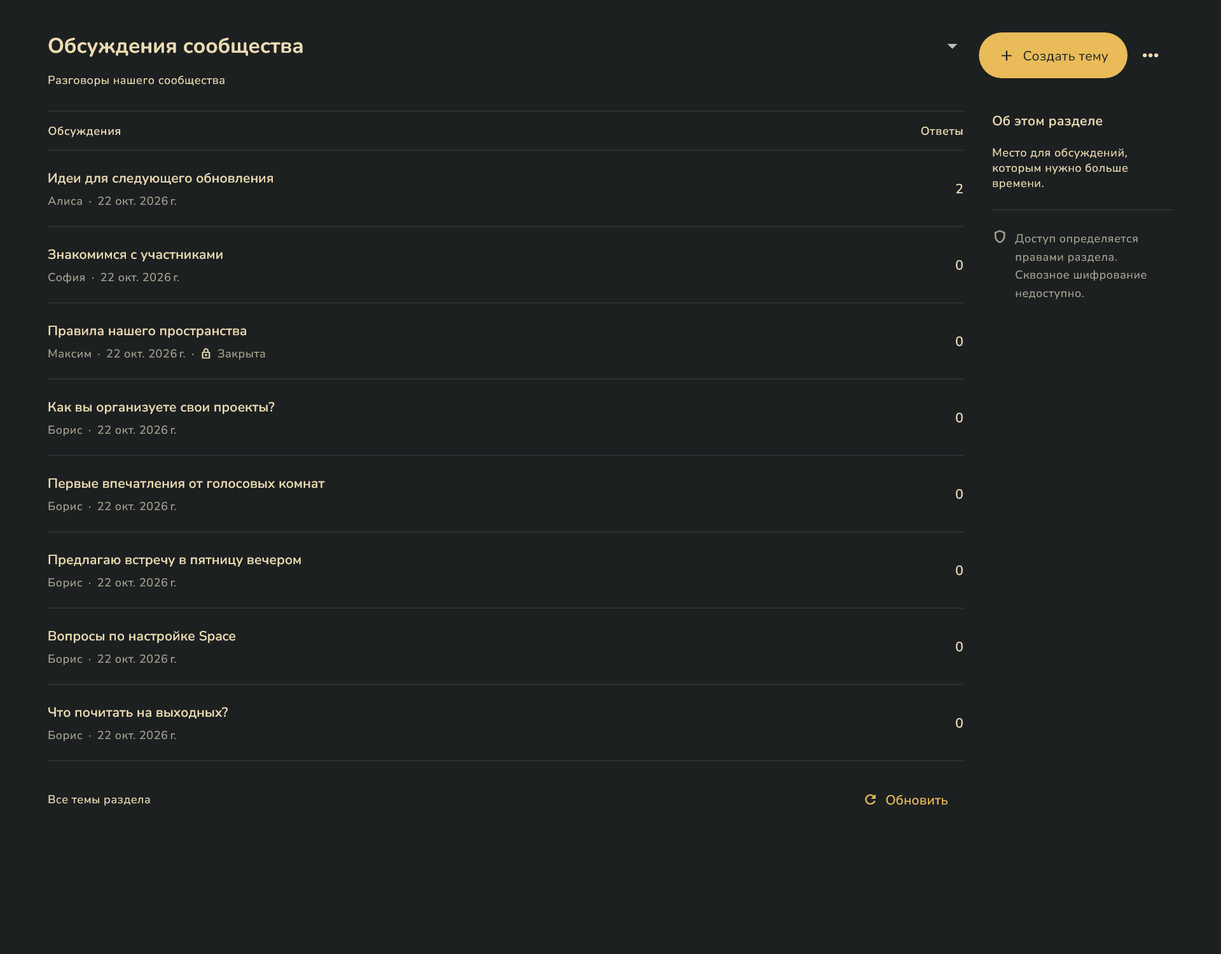
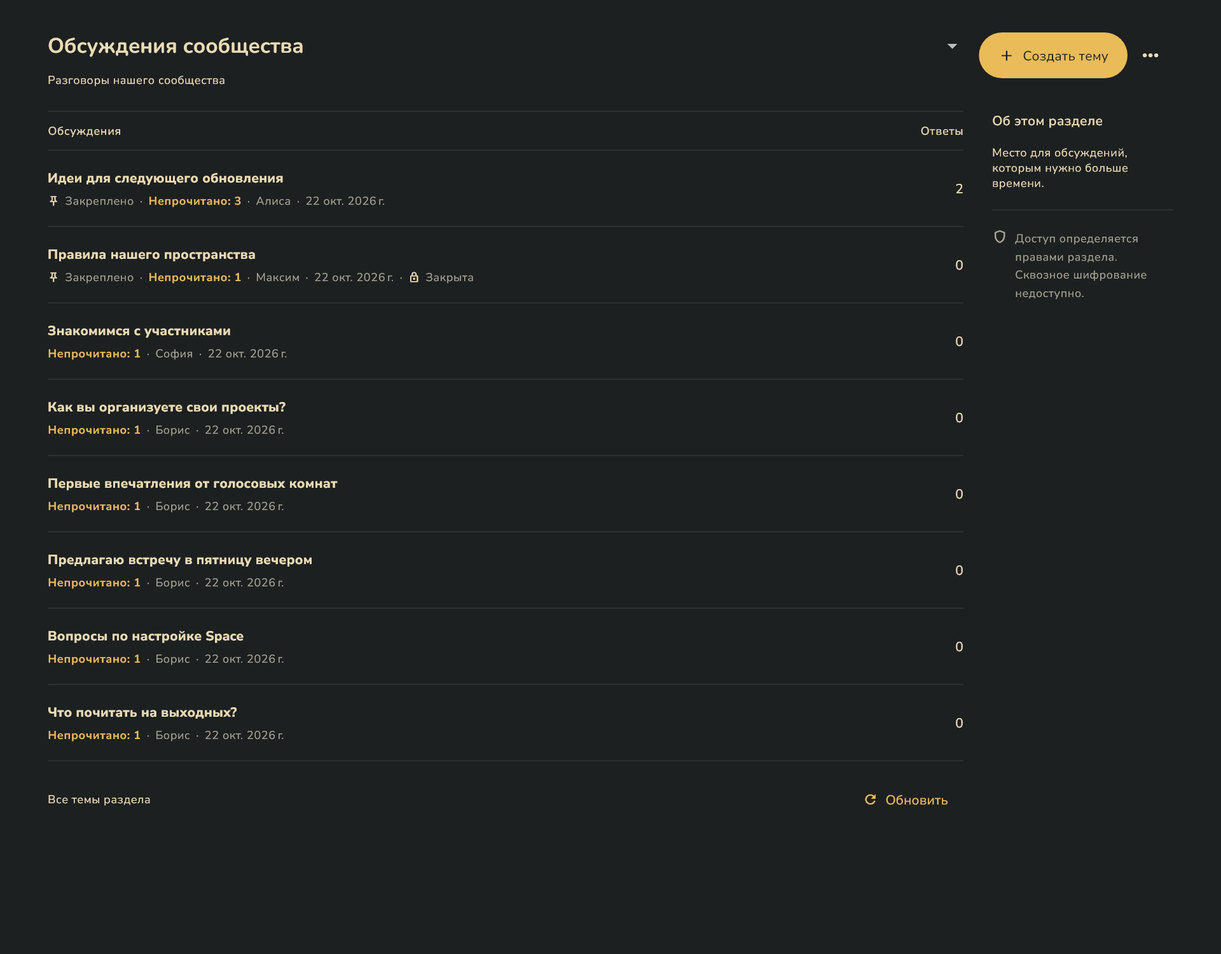
Обновить сайт для форума v0.7.14 и runtime v0.7.11

diff --git a/index.html b/index.html
@@ -16,7 +16,7 @@
 <a class="skip" href="#main">Перейти к содержанию</a>
 <header class="header"><a class="brand" href="#" aria-label="Space Protocol — наверх"><img src="assets/emblem.png" alt="" width="34" height="40"><span>SPACE<br>PROTOCOL</span></a><nav aria-label="Главная навигация"><a href="#idea">Для кого</a><a href="#inside">Возможности</a><a href="#how">Как начать</a><a href="#download">Скачать</a><a href="#roadmap">Развитие</a></nav><div class="header-tools"><label class="language-picker"><span aria-hidden="true">◎</span><select id="site-language" aria-label="Язык сайта"><option value="auto">Автоматически</option><option value="ru">Русский</option><option value="zh">简体中文</option><option value="en">English</option></select></label><a class="repo small" href="https://github.com/space-protocol-project/space-protocol" target="_blank" rel="noopener">GitHub <span aria-hidden="true">↗</span></a></div></header>
 <main id="main">
-<section class="hero" aria-labelledby="hero-title"><div class="hero-inner"><div class="hero-copy"><p class="eyebrow"><span class="status-dot"></span> Открытый проект · Выпуск v0.7.13</p><h1 id="hero-title">СВОЁ<br><span>ПРОСТРАНСТВО.</span></h1><p class="hero-description">Чаты, форум, файлы и свои люди.<br>На своём сервере. По своим правилам.</p><div class="hero-actions"><a class="button cream" href="#download"><svg class="action-icon" viewBox="0 0 24 24" aria-hidden="true" focusable="false"><path class="download-arrow" d="M12 3v12m-4-4 4 4 4-4"/><path d="M4 16v4h16v-4"/></svg><span>Скачать Space</span></a><a class="text-link" href="#idea"><span class="action-label"><svg class="action-icon" viewBox="0 0 24 24" aria-hidden="true" focusable="false"><circle cx="12" cy="12" r="5"/><g transform="rotate(-30 12 12)"><ellipse cx="12" cy="12" rx="11" ry="4"/><circle class="orbit-satellite" r="1.5" fill="currentColor" stroke="none"/></g></svg><span>Как это работает</span></span><span aria-hidden="true">↓</span></a></div><p class="hero-note">Для друзей, команд и сообществ.<br>Создайте своё место или войдите по приглашению.</p></div><div class="hero-art"><div class="art-ring" aria-hidden="true"></div><img src="assets/branding/emblem-transparent.webp" alt="Знак Space: переплетённое пламя и искра" width="600" height="650"><span class="art-caption">СВОЁ МЕСТО. СВОИ ЛЮДИ.</span><span class="art-index" aria-hidden="true">SP / 001</span></div></div><div class="hero-bottom"><span>СОЗДАЁМ В ОТКРЫТУЮ</span><span>Go / Flutter / Protobuf</span><a href="#idea" aria-label="Перейти к идее проекта">↓</a></div></section>
+<section class="hero" aria-labelledby="hero-title"><div class="hero-inner"><div class="hero-copy"><p class="eyebrow"><span class="status-dot"></span> Открытый проект · Выпуск v0.7.14</p><h1 id="hero-title">СВОЁ<br><span>ПРОСТРАНСТВО.</span></h1><p class="hero-description">Чаты, форум, файлы и свои люди.<br>На своём сервере. По своим правилам.</p><div class="hero-actions"><a class="button cream" href="#download"><svg class="action-icon" viewBox="0 0 24 24" aria-hidden="true" focusable="false"><path class="download-arrow" d="M12 3v12m-4-4 4 4 4-4"/><path d="M4 16v4h16v-4"/></svg><span>Скачать Space</span></a><a class="text-link" href="#idea"><span class="action-label"><svg class="action-icon" viewBox="0 0 24 24" aria-hidden="true" focusable="false"><circle cx="12" cy="12" r="5"/><g transform="rotate(-30 12 12)"><ellipse cx="12" cy="12" rx="11" ry="4"/><circle class="orbit-satellite" r="1.5" fill="currentColor" stroke="none"/></g></svg><span>Как это работает</span></span><span aria-hidden="true">↓</span></a></div><p class="hero-note">Для друзей, команд и сообществ.<br>Создайте своё место или войдите по приглашению.</p></div><div class="hero-art"><div class="art-ring" aria-hidden="true"></div><img src="assets/branding/emblem-transparent.webp" alt="Знак Space: переплетённое пламя и искра" width="600" height="650"><span class="art-caption">СВОЁ МЕСТО. СВОИ ЛЮДИ.</span><span class="art-index" aria-hidden="true">SP / 001</span></div></div><div class="hero-bottom"><span>СОЗДАЁМ В ОТКРЫТУЮ</span><span>Go / Flutter / Protobuf</span><a href="#idea" aria-label="Перейти к идее проекта">↓</a></div></section>
 <div class="principles" aria-label="Принципы проекта"><span>СВОЙ СЕРВЕР</span><i aria-hidden="true">✦</i><span>СВОЯ ИДЕНТИЧНОСТЬ</span><i aria-hidden="true">✦</i><span>ОДНО ПРИЛОЖЕНИЕ</span></div>
 
 <section class="idea light section" id="idea" aria-labelledby="idea-title">
@@ -29,7 +29,7 @@
 <article class="scenario"><div class="scenario-art access-art" aria-hidden="true"><span class="mini-label">КЛУБ ПО ИНТЕРЕСАМ</span><div class="mini-people"><span>✦</span><span>◎</span><span>✧</span><span>+</span></div><div class="mini-invite">Приглашение · 3 входа <span>↗</span></div></div><p class="scenario-kicker">ДЛЯ СООБЩЕСТВА</p><h3>Свой круг, понятные правила.</h3><p>Приглашайте участников, назначайте роли и открывайте каналы тем, кому они нужны.</p></article>
 </div><p class="example-note">Примеры показывают возможные сценарии, а не реальные переписки.</p></section>
 <section class="inside dark section" id="inside" aria-labelledby="features-title">
-<div class="section-label"><span>02 / ЧТО МОЖНО ДЕЛАТЬ</span><span>v0.7.13</span></div>
+<div class="section-label"><span>02 / ЧТО МОЖНО ДЕЛАТЬ</span><span>v0.7.14</span></div>
 <div class="inside-heading"><h2 id="features-title">Ближе друг к другу.<br><em>Проще каждый день.</em></h2></div>
 <div class="feature-grid">
 <article class="feature-card feature-card--conversation">
@@ -73,9 +73,9 @@
 <div class="setup-heading"><span class="setup-symbol" aria-hidden="true">✦</span><div><h3 id="setup-title">Своё пространство: шаг за шагом</h3><p>Выберите, где будет работать сервер. Участники в обоих случаях заходят через Space.</p></div></div>
 <div class="setup-tabs" role="tablist" aria-label="Способ запуска"><button type="button" role="tab" id="setup-app-tab" aria-controls="setup-app" aria-selected="true" tabindex="0">Из приложения</button><button type="button" role="tab" id="setup-server-tab" aria-controls="setup-server" aria-selected="false" tabindex="-1">На Linux-сервере</button></div>
 <div id="setup-app" role="tabpanel" aria-labelledby="setup-app-tab" tabindex="0"><p class="setup-intro">Самый короткий путь: компьютер с Windows, macOS или Linux. Команды и отдельная PostgreSQL не нужны.</p><ol class="setup-steps"><li><span class="guide-number" aria-hidden="true">1</span><div><h4>Установите и откройте Space</h4><p>Скачайте приложение для своей системы. На телефоне можно присоединяться и общаться; сервер запускается на компьютере.</p></div></li><li><span class="guide-number" aria-hidden="true">2</span><div><h4>Откройте «Эфир» слева</h4><p>Укажите внешний адрес и порт: публичный IP или домен. Для начала оставьте порт 8443. Если вы за роутером, направьте этот TCP-порт на компьютер.</p></div></li><li><span class="guide-number" aria-hidden="true">3</span><div><h4>Нажмите «Выйти в эфир»</h4><p>Space скачает runtime, проверит его и запустит сервер с собственной базой. Дождитесь готовности; повторный запуск сохранит данные.</p></div></li><li><span class="guide-number" aria-hidden="true">4</span><div><h4>Создайте каналы и пригласите своих</h4><p>В выбранном пространстве откройте управление: задайте название, создайте каналы и приглашение. Отправьте участнику ссылку или QR.</p></div></li></ol><p class="setup-tip">В v0.6.0 в «Эфире» доступны размеры данных, безопасная очистка и резервные копии по расписанию. Расписание и автоматическая очистка включаются отдельно; runtime должен работать. Серверная копия не содержит ключи устройств MLS.</p><p class="setup-tip">Компьютер должен оставаться включённым. Если у провайдера CGNAT, одного проброса порта недостаточно: нужен публичный адрес, туннель или VPS.</p><div class="setup-actions"><a class="ink-link" href="#download">Выбрать приложение для компьютера <span aria-hidden="true">↓</span></a></div></div>
-<div id="setup-server" role="tabpanel" aria-labelledby="setup-server-tab" tabindex="0" hidden><p class="setup-intro">Свое пространство на Linux-сервере — одной командой. Создавать его на компьютере заранее не нужно.</p><p class="setup-tip">Нужны Linux x64 с systemd, обычный пользователь (не root), curl, unzip и sha256sum. Актуальная пара: приложение v0.7.13 и runtime v0.7.10, схема 27.</p><ol class="setup-steps"><li><span class="guide-number" aria-hidden="true">1</span><div><h4>Откройте порт сервера</h4><p>Разрешите входящий TCP 8443 в файрволе и панели провайдера. Нужен публично доступный IP или домен; за CGNAT потребуется туннель или VPS.</p></div></li><li><span class="guide-number" aria-hidden="true">2</span><div><h4>Запустите одну команду</h4><p>Подключитесь по SSH и вставьте команду. Она скачает runtime, проверит SHA-256 и установит службу systemd с собственной PostgreSQL. Внешний IP определится автоматически.</p><div class="setup-command"><pre><code id="setup-download">curl -fsSL https://raw.githubusercontent.com/space-protocol-project/space-server/main/packaging/install.sh | sh -s -- --service</code></pre><button type="button" class="copy-command" data-copy="setup-download"><span>Скопировать</span><span hidden>Скопировано</span><span hidden>Выделите и скопируйте команду</span></button></div></div></li><li><span class="guide-number" aria-hidden="true">3</span><div><h4>Войдите с компьютера или телефона</h4><p>В терминале появится одноразовая ссылка настройки. В Space откройте подключение, вставьте ссылку и подтвердите вход. Первый вошедший по ней станет владельцем. Ссылка действует 15 минут — не публикуйте её.</p></div></li><li><span class="guide-number" aria-hidden="true">4</span><div><h4>Пригласите людей и назначьте администраторов</h4><p>Создайте приглашение в управлении пространством. В разделе участников владелец может назначить роль «Администратор» нескольким людям. Они смогут управлять пространством из приложения, в том числе на Android.</p></div></li></ol><h4>Нужен свой домен или другой порт?</h4><p>Укажите адрес явно. В этом примере откройте TCP 9443; DNS домена должен указывать на сервер.</p><div class="setup-command"><pre><code id="setup-custom">curl -fsSL https://raw.githubusercontent.com/space-protocol-project/space-server/main/packaging/install.sh | sh -s -- --service -address https://space.example.org:9443 -listen 0.0.0.0:9443</code></pre><button type="button" class="copy-command" data-copy="setup-custom"><span>Скопировать</span><span hidden>Скопировано</span><span hidden>Выделите и скопируйте команду</span></button></div><p class="setup-tip">После сообщения о готовности можно закрыть SSH: сервер продолжит работу и запустится после перезагрузки. Статус: systemctl --user status space-server. Остановка: systemctl --user stop space-server. Данные сохраняются.</p><p class="setup-tip">Если установщик попросит включить автозапуск пользователя, выполните sudo loginctl enable-linger "$USER" и повторите команду. Прежний запуск в терминале сначала остановите через Ctrl+C.</p><a class="ink-link" href="https://github.com/space-protocol-project/space-app/blob/main/docs/STANDALONE-SERVER.md" target="_blank" rel="noopener">Подробная инструкция запуска сервера <span aria-hidden="true">↗</span></a></div><details class="setup-notifications setup-fold" id="voice-setup"><summary><h3>Голосовые комнаты · v0.7.13</h3></summary><div class="setup-fold-body"><p class="setup-tip">Перед обновлением сохраните резервную копию пространства и отдельно ключи устройств MLS. Сначала установите приложение v0.7.13, затем обновите runtime до v0.7.10 через «Эфир».</p><h4>От 2 до 32 участников в комнате</h4><p>Установите приложение v0.7.13 и runtime v0.7.10 со схемой 27. Владелец или администратор создаёт комнату в управлении пространством. Участники открывают «Комнаты» на компьютере или Android. Лимит комнаты задаётся в настройках от 2 до 32 участников, по умолчанию 8.</p><p>Микрофон при входе выключен. Рамка вокруг аватара показывает, кто говорит. Голос работает на Windows, macOS, Linux и Android. DeepFilterNet3 включён по умолчанию; можно выбрать WebRTC или отключить обработку. На Android есть экранная кнопка рации.</p><h4>Если участники за разными роутерами</h4><p>Для сложного NAT/CGNAT настройте собственный публичный TURN, например coturn на VPS. Автоматический проброс HTTPS-порта не заменяет TURN. Адрес API пространства тоже должен быть доступен участникам.</p><div class="setup-command"><pre><code>SPACE_VOICE_STUN_URLS=stun:voice.example.org:3478
+<div id="setup-server" role="tabpanel" aria-labelledby="setup-server-tab" tabindex="0" hidden><p class="setup-intro">Свое пространство на Linux-сервере — одной командой. Создавать его на компьютере заранее не нужно.</p><p class="setup-tip">Нужны Linux x64 с systemd, обычный пользователь (не root), curl, unzip и sha256sum. Актуальная пара: приложение v0.7.14 и runtime v0.7.11, схема 28.</p><ol class="setup-steps"><li><span class="guide-number" aria-hidden="true">1</span><div><h4>Откройте порт сервера</h4><p>Разрешите входящий TCP 8443 в файрволе и панели провайдера. Нужен публично доступный IP или домен; за CGNAT потребуется туннель или VPS.</p></div></li><li><span class="guide-number" aria-hidden="true">2</span><div><h4>Запустите одну команду</h4><p>Подключитесь по SSH и вставьте команду. Она скачает runtime, проверит SHA-256 и установит службу systemd с собственной PostgreSQL. Внешний IP определится автоматически.</p><div class="setup-command"><pre><code id="setup-download">curl -fsSL https://raw.githubusercontent.com/space-protocol-project/space-server/main/packaging/install.sh | sh -s -- --service</code></pre><button type="button" class="copy-command" data-copy="setup-download"><span>Скопировать</span><span hidden>Скопировано</span><span hidden>Выделите и скопируйте команду</span></button></div></div></li><li><span class="guide-number" aria-hidden="true">3</span><div><h4>Войдите с компьютера или телефона</h4><p>В терминале появится одноразовая ссылка настройки. В Space откройте подключение, вставьте ссылку и подтвердите вход. Первый вошедший по ней станет владельцем. Ссылка действует 15 минут — не публикуйте её.</p></div></li><li><span class="guide-number" aria-hidden="true">4</span><div><h4>Пригласите людей и назначьте администраторов</h4><p>Создайте приглашение в управлении пространством. В разделе участников владелец может назначить роль «Администратор» нескольким людям. Они смогут управлять пространством из приложения, в том числе на Android.</p></div></li></ol><h4>Нужен свой домен или другой порт?</h4><p>Укажите адрес явно. В этом примере откройте TCP 9443; DNS домена должен указывать на сервер.</p><div class="setup-command"><pre><code id="setup-custom">curl -fsSL https://raw.githubusercontent.com/space-protocol-project/space-server/main/packaging/install.sh | sh -s -- --service -address https://space.example.org:9443 -listen 0.0.0.0:9443</code></pre><button type="button" class="copy-command" data-copy="setup-custom"><span>Скопировать</span><span hidden>Скопировано</span><span hidden>Выделите и скопируйте команду</span></button></div><p class="setup-tip">После сообщения о готовности можно закрыть SSH: сервер продолжит работу и запустится после перезагрузки. Статус: systemctl --user status space-server. Остановка: systemctl --user stop space-server. Данные сохраняются.</p><p class="setup-tip">Если установщик попросит включить автозапуск пользователя, выполните sudo loginctl enable-linger "$USER" и повторите команду. Прежний запуск в терминале сначала остановите через Ctrl+C.</p><a class="ink-link" href="https://github.com/space-protocol-project/space-app/blob/main/docs/STANDALONE-SERVER.md" target="_blank" rel="noopener">Подробная инструкция запуска сервера <span aria-hidden="true">↗</span></a></div><details class="setup-notifications setup-fold" id="voice-setup"><summary><h3>Голосовые комнаты · v0.7.14</h3></summary><div class="setup-fold-body"><p class="setup-tip">Перед обновлением сохраните резервную копию пространства и отдельно ключи устройств MLS. Сначала установите приложение v0.7.14, затем обновите runtime до v0.7.10 через «Эфир».</p><h4>От 2 до 32 участников в комнате</h4><p>Установите приложение v0.7.14 и runtime v0.7.11 со схемой 28. Владелец или администратор создаёт комнату в управлении пространством. Участники открывают «Комнаты» на компьютере или Android. Лимит комнаты задаётся в настройках от 2 до 32 участников, по умолчанию 8.</p><p>Микрофон при входе выключен. Рамка вокруг аватара показывает, кто говорит. Голос работает на Windows, macOS, Linux и Android. DeepFilterNet3 включён по умолчанию; можно выбрать WebRTC или отключить обработку. На Android есть экранная кнопка рации.</p><h4>Если участники за разными роутерами</h4><p>Для сложного NAT/CGNAT настройте собственный публичный TURN, например coturn на VPS. Автоматический проброс HTTPS-порта не заменяет TURN. Адрес API пространства тоже должен быть доступен участникам.</p><div class="setup-command"><pre><code>SPACE_VOICE_STUN_URLS=stun:voice.example.org:3478
 SPACE_VOICE_TURN_URLS=turn:voice.example.org:3478?transport=udp,turn:voice.example.org:3478?transport=tcp
-SPACE_VOICE_TURN_SECRET_FILE=/private/path/turn-secret</code></pre></div><p>Задайте переменные на компьютере runtime до запуска Space или в EnvironmentFile службы systemd. Секрет в файле должен совпадать с секретом coturn; клиентам он не передаётся. Для обязательного маршрута через TURN задайте SPACE_VOICE_RELAY_ONLY=true.</p><p>Откройте на TURN-сервере UDP/TCP 3478 и UDP-диапазон ретрансляции из его конфигурации. Для turns: нужен доверенный TLS-сертификат и TCP 5349. После изменения настроек перезапустите runtime и заново войдите в комнату.</p><a class="ink-link" href="https://github.com/space-protocol-project/space-server/blob/main/deploy/turn/README.md" target="_blank" rel="noopener">Пошаговая настройка coturn и защита сервера</a><p class="setup-tip">Звук проходит через runtime и доступен серверу; это не MLS/E2EE. Запись не ведётся. Автоматический стенд восьми WebRTC-клиентов проверен напрямую и через TURN UDP/TCP. Разговор восьми людей через настоящий интернет ещё не проверен.</p></div></details><details class="setup-notifications setup-fold" id="notifications-setup"><summary><h3>Уведомления без Firebase</h3></summary><div class="setup-fold-body"><p>В runtime v0.7.10 со схемой 27 уведомления Android работают без Firebase. Отдельный сервер уведомлений и дополнительный порт не нужны.</p><ol class="setup-steps"><li><span class="guide-number" aria-hidden="true">1</span><div><h4>Подключитесь к пространству</h4><p>Добавьте приглашение в Space и подтвердите ключ пространства. Для обновления существующего сервера сначала установите приложение v0.7.13, затем runtime v0.7.10.</p></div></li><li><span class="guide-number" aria-hidden="true">2</span><div><h4>Включите уведомления</h4><p>В настройках Space выберите режим уведомлений и выдайте разрешение Android. Приложение подключит пространства автоматически; появится постоянная карточка «Подключение к пространствам».</p></div></li><li><span class="guide-number" aria-hidden="true">3</span><div><h4>Откройте нужное сообщение одним нажатием</h4><p>В фоне показывается только «Новое сообщение», без текста, имён и файлов. Нажатие ведёт к доступному сообщению обычного или закрытого MLS-канала.</p></div></li></ol><p class="setup-tip">Сервер должен быть включён и доступен телефону. Разрешите фоновую работу Space в настройках батареи: режим сна и ограничения Android могут задерживать доставку. После принудительной остановки откройте Space снова. Фоновая доставка Android пока требует ручной приёмки.</p></div></details></section></div></div></div><div class="first-try"><span aria-hidden="true">✦</span><div><h3>Попробуйте маленький сценарий.</h3><p>Пригласите одного человека. Создайте канал для общей идеи, отправьте файл и добавьте ответ в избранное. Посмотрите, удобно ли вам так общаться.</p><a class="ink-link" href="#download">Скачать и попробовать <span aria-hidden="true">↓</span></a></div></div></section>
+SPACE_VOICE_TURN_SECRET_FILE=/private/path/turn-secret</code></pre></div><p>Задайте переменные на компьютере runtime до запуска Space или в EnvironmentFile службы systemd. Секрет в файле должен совпадать с секретом coturn; клиентам он не передаётся. Для обязательного маршрута через TURN задайте SPACE_VOICE_RELAY_ONLY=true.</p><p>Откройте на TURN-сервере UDP/TCP 3478 и UDP-диапазон ретрансляции из его конфигурации. Для turns: нужен доверенный TLS-сертификат и TCP 5349. После изменения настроек перезапустите runtime и заново войдите в комнату.</p><a class="ink-link" href="https://github.com/space-protocol-project/space-server/blob/main/deploy/turn/README.md" target="_blank" rel="noopener">Пошаговая настройка coturn и защита сервера</a><p class="setup-tip">Звук проходит через runtime и доступен серверу; это не MLS/E2EE. Запись не ведётся. Автоматический стенд восьми WebRTC-клиентов проверен напрямую и через TURN UDP/TCP. Разговор восьми людей через настоящий интернет ещё не проверен.</p></div></details><details class="setup-notifications setup-fold" id="notifications-setup"><summary><h3>Уведомления без Firebase</h3></summary><div class="setup-fold-body"><p>В runtime v0.7.11 со схемой 28 уведомления Android работают без Firebase. Отдельный сервер уведомлений и дополнительный порт не нужны.</p><ol class="setup-steps"><li><span class="guide-number" aria-hidden="true">1</span><div><h4>Подключитесь к пространству</h4><p>Добавьте приглашение в Space и подтвердите ключ пространства. Для обновления существующего сервера сначала установите приложение v0.7.14, затем runtime v0.7.11.</p></div></li><li><span class="guide-number" aria-hidden="true">2</span><div><h4>Включите уведомления</h4><p>В настройках Space выберите режим уведомлений и выдайте разрешение Android. Приложение подключит пространства автоматически; появится постоянная карточка «Подключение к пространствам».</p></div></li><li><span class="guide-number" aria-hidden="true">3</span><div><h4>Откройте нужное сообщение одним нажатием</h4><p>В фоне показывается только «Новое сообщение», без текста, имён и файлов. Нажатие ведёт к доступному сообщению обычного или закрытого MLS-канала.</p></div></li></ol><p class="setup-tip">Сервер должен быть включён и доступен телефону. Разрешите фоновую работу Space в настройках батареи: режим сна и ограничения Android могут задерживать доставку. После принудительной остановки откройте Space снова. Фоновая доставка Android пока требует ручной приёмки.</p></div></details></section></div></div></div><div class="first-try"><span aria-hidden="true">✦</span><div><h3>Попробуйте маленький сценарий.</h3><p>Пригласите одного человека. Создайте канал для общей идеи, отправьте файл и добавьте ответ в избранное. Посмотрите, удобно ли вам так общаться.</p><a class="ink-link" href="#download">Скачать и попробовать <span aria-hidden="true">↓</span></a></div></div></section>
 <section class="ui-demo dark section" id="interface" aria-labelledby="ui-title">
 <div class="section-label"><span>04 / ПОСМОТРИТЕ ВНУТРИ</span><span>WINDOWS · ANDROID</span></div>
 <div class="inside-heading"><h2 id="ui-title">Одно окно.<br><em>Разные возможности.</em></h2><p>Посмотрите, как устроен Space.<br>Основные экраны на компьютере и телефоне.</p></div>
@@ -84,7 +84,7 @@ SPACE_VOICE_TURN_SECRET_FILE=/private/path/turn-secret</code></pre></div><p>За
 <figure><a class="gallery-shot" href="assets/screens/desktop-overview.png" data-gallery-title="На компьютере · Обзор пространства" aria-haspopup="dialog" aria-label="Открыть крупнее: обзор пространства — на компьютере"><img src="assets/screens/desktop-overview.png" alt="Space — обзор пространства, на компьютере" loading="lazy"></a><figcaption><strong>Обзор пространства</strong><p>Каналы пространства и непрочитанные сообщения в одном месте.</p></figcaption></figure>
 <figure><a class="gallery-shot" href="assets/screens/desktop-settings.png" data-gallery-title="На компьютере · Настройки" aria-haspopup="dialog" aria-label="Открыть крупнее: настройки — на компьютере"><img src="assets/screens/desktop-settings.png" alt="Space — настройки, на компьютере" loading="lazy"></a><figcaption><strong>Настройки</strong><p>Тема, палитра, язык и сочетания клавиш.</p></figcaption></figure>
 </div></section>
-<section class="gallery-group" aria-labelledby="gallery-forum-title"><h3 id="gallery-forum-title">Форум · v0.7.13</h3><p class="screen-provenance">Плотный список тем, открытая и закрытая тема на широком и узком экранах. Поле ответа общее с чатом: эмодзи, вложения и отправка. Это снимки Flutter-виджетов с демонстрационными данными, без оболочки приложения.</p><p class="screen-provenance">В теме и ответах — до пяти файлов по 20 МиБ, если сервер разрешил вложения. Закрывать тему может модератор с нужными правами; сервер запрещает новые ответы. Форум хранится на сервере без сквозного шифрования. Поиск и уведомления форума ещё впереди.</p><div class="gallery-grid gallery-desktop"><figure><a class="gallery-shot" href="assets/screens/forum-topics-desktop.png" data-gallery-title="Список тем · широкий экран" aria-haspopup="dialog" aria-label="Список тем · широкий экран"><img src="assets/screens/forum-topics-desktop.png" alt="Список тем · широкий экран" width="1920" height="1500" loading="lazy"></a><figcaption><strong>Список тем · широкий экран</strong></figcaption></figure><figure><a class="gallery-shot" href="assets/screens/forum-discussion-desktop.png" data-gallery-title="Открытая тема · широкий экран" aria-haspopup="dialog" aria-label="Открытая тема · широкий экран"><img src="assets/screens/forum-discussion-desktop.png" alt="Открытая тема · широкий экран" width="1920" height="1500" loading="lazy"></a><figcaption><strong>Открытая тема · широкий экран</strong></figcaption></figure><figure><a class="gallery-shot" href="assets/screens/forum-closed-desktop.png" data-gallery-title="Закрытая тема · широкий экран" aria-haspopup="dialog" aria-label="Закрытая тема · широкий экран"><img src="assets/screens/forum-closed-desktop.png" alt="Закрытая тема · широкий экран" width="1920" height="1500" loading="lazy"></a><figcaption><strong>Закрытая тема · широкий экран</strong></figcaption></figure></div><div class="gallery-grid gallery-mobile"><figure><a class="gallery-shot" href="assets/screens/forum-topics-mobile.png" data-gallery-title="Список тем · узкий экран" aria-haspopup="dialog" aria-label="Список тем · узкий экран"><img src="assets/screens/forum-topics-mobile.png" alt="Список тем · узкий экран" width="585" height="2100" loading="lazy"></a><figcaption><strong>Список тем · узкий экран</strong></figcaption></figure><figure><a class="gallery-shot" href="assets/screens/forum-discussion-mobile.png" data-gallery-title="Открытая тема · узкий экран" aria-haspopup="dialog" aria-label="Открытая тема · узкий экран"><img src="assets/screens/forum-discussion-mobile.png" alt="Открытая тема · узкий экран" width="585" height="2100" loading="lazy"></a><figcaption><strong>Открытая тема · узкий экран</strong></figcaption></figure><figure><a class="gallery-shot" href="assets/screens/forum-closed-mobile.png" data-gallery-title="Закрытая тема · узкий экран" aria-haspopup="dialog" aria-label="Закрытая тема · узкий экран"><img src="assets/screens/forum-closed-mobile.png" alt="Закрытая тема · узкий экран" width="585" height="2100" loading="lazy"></a><figcaption><strong>Закрытая тема · узкий экран</strong></figcaption></figure></div></section>
+<section class="gallery-group" aria-labelledby="gallery-forum-title"><h3 id="gallery-forum-title">Форум · v0.7.14</h3><p class="screen-provenance">Закрепления, непрочитанное и синхронизация чтения между устройствами. Плотный список, открытая и закрытая тема, разрешение устройству модератора на широком и узком экранах. Поле ответа общее с чатом: эмодзи, вложения и отправка. Снимки Flutter-виджетов с демонстрационными данными, без оболочки приложения.</p><p class="screen-provenance">В теме и ответах — до пяти файлов по 20 МиБ, если сервер разрешил вложения. Закрывать тему может модератор с нужными правами; сервер запрещает новые ответы. Форум хранится на сервере без сквозного шифрования. Поиск и уведомления форума ещё впереди.</p><div class="gallery-grid gallery-desktop"><figure><a class="gallery-shot" href="assets/screens/forum-topics-desktop.png" data-gallery-title="Список тем · широкий экран" aria-haspopup="dialog" aria-label="Список тем · широкий экран"><img src="assets/screens/forum-topics-desktop.png" alt="Список тем · широкий экран" width="1920" height="1500" loading="lazy"></a><figcaption><strong>Список тем · широкий экран</strong></figcaption></figure><figure><a class="gallery-shot" href="assets/screens/forum-discussion-desktop.png" data-gallery-title="Открытая тема · широкий экран" aria-haspopup="dialog" aria-label="Открытая тема · широкий экран"><img src="assets/screens/forum-discussion-desktop.png" alt="Открытая тема · широкий экран" width="1920" height="1500" loading="lazy"></a><figcaption><strong>Открытая тема · широкий экран</strong></figcaption></figure><figure><a class="gallery-shot" href="assets/screens/forum-closed-desktop.png" data-gallery-title="Закрытая тема · широкий экран" aria-haspopup="dialog" aria-label="Закрытая тема · широкий экран"><img src="assets/screens/forum-closed-desktop.png" alt="Закрытая тема · широкий экран" width="1920" height="1500" loading="lazy"></a><figcaption><strong>Закрытая тема · широкий экран</strong></figcaption></figure></div><div class="gallery-grid gallery-mobile"><figure><a class="gallery-shot" href="assets/screens/forum-topics-mobile.png" data-gallery-title="Список тем · узкий экран" aria-haspopup="dialog" aria-label="Список тем · узкий экран"><img src="assets/screens/forum-topics-mobile.png" alt="Список тем · узкий экран" width="585" height="2100" loading="lazy"></a><figcaption><strong>Список тем · узкий экран</strong></figcaption></figure><figure><a class="gallery-shot" href="assets/screens/forum-discussion-mobile.png" data-gallery-title="Открытая тема · узкий экран" aria-haspopup="dialog" aria-label="Открытая тема · узкий экран"><img src="assets/screens/forum-discussion-mobile.png" alt="Открытая тема · узкий экран" width="585" height="2100" loading="lazy"></a><figcaption><strong>Открытая тема · узкий экран</strong></figcaption></figure><figure><a class="gallery-shot" href="assets/screens/forum-closed-mobile.png" data-gallery-title="Закрытая тема · узкий экран" aria-haspopup="dialog" aria-label="Закрытая тема · узкий экран"><img src="assets/screens/forum-closed-mobile.png" alt="Закрытая тема · узкий экран" width="585" height="2100" loading="lazy"></a><figcaption><strong>Закрытая тема · узкий экран</strong></figcaption></figure></div><div class="gallery-grid gallery-desktop"><figure><a class="gallery-shot" href="assets/screens/forum-device-permission-desktop.png" data-gallery-title="Разрешение устройству модератора · широкий экран" aria-haspopup="dialog" aria-label="Разрешение устройству модератора · широкий экран"><img src="assets/screens/forum-device-permission-desktop.png" alt="Разрешение устройству модератора · широкий экран" loading="lazy"></a><figcaption><strong>Разрешение устройству модератора · широкий экран</strong></figcaption></figure><figure><a class="gallery-shot" href="assets/screens/forum-device-permission-mobile.png" data-gallery-title="Разрешение устройству модератора · узкий экран" aria-haspopup="dialog" aria-label="Разрешение устройству модератора · узкий экран"><img src="assets/screens/forum-device-permission-mobile.png" alt="Разрешение устройству модератора · узкий экран" loading="lazy"></a><figcaption><strong>Разрешение устройству модератора · узкий экран</strong></figcaption></figure></div></section>
 <section class="gallery-group" aria-labelledby="gallery-voice-title">
 <h3 id="gallery-voice-title">Голосовые комнаты</h3>
 <p class="screen-provenance">Полный интерфейс Space v0.7.9 на компьютере: пространства, навигация, участники и панель звонка. Участники и речевая активность показаны на демонстрационных данных.</p>
@@ -109,9 +109,9 @@ SPACE_VOICE_TURN_SECRET_FILE=/private/path/turn-secret</code></pre></div><p>За
 </section>
 
 <section class="downloads light section" id="download" aria-labelledby="download-title">
-<div class="section-label"><span>СКАЧАТЬ SPACE</span><span>v0.7.13 · 22 ОКТЯБРЯ 2026</span></div>
+<div class="section-label"><span>СКАЧАТЬ SPACE</span><span>v0.7.14 · 22 ОКТЯБРЯ 2026</span></div>
 <div class="download-heading"><h2 id="download-title">Ваше пространство.<br><em>На ваших устройствах.</em></h2><p>Выберите устройство и попробуйте с одним человеком. Здесь всегда последняя опубликованная версия.</p></div>
-<p class="download-note">Клиент v0.7.13 и runtime v0.7.10: форум с темами, ответами, вложениями и серверной проверкой прав. Схема 27. Сначала обновите клиент и сохраните резервную копию пространства и ключей MLS, затем примените обновление сервера в «Эфире».</p>
+<p class="download-note">Клиент v0.7.14 и runtime v0.7.11: закрепления, непрочитанное и синхронизация чтения форума, разрешение устройству модератора с серверной проверкой прав. Схема 28. Сначала обновите клиент и сохраните резервную копию пространства и ключей MLS, затем примените обновление сервера в «Эфире».</p>
 <div class="download-grid">
 <article><h3><img class="os-icon" src="assets/os/windows.svg" alt="" width="30" height="30">Windows</h3><p>Windows 10/11 · x64<br>Установщик EXE</p><a class="button cream" href="https://github.com/space-protocol-project/space-app/releases/latest/download/Space-Setup-windows-x64.exe" aria-label="Скачать Space для Windows x64">Скачать для Windows <span aria-hidden="true">↓</span></a></article>
 <article><h3><img class="os-icon" src="assets/os/apple.svg" alt="" width="30" height="30">macOS</h3><p>Apple Silicon · arm64<br>Образ DMG</p><a class="button cream" href="https://github.com/space-protocol-project/space-app/releases/latest/download/Space-macos-arm64.dmg" aria-label="Скачать Space для macOS Apple Silicon">Скачать для macOS <span aria-hidden="true">↓</span></a></article>
@@ -129,5 +129,5 @@ SPACE_VOICE_TURN_SECRET_FILE=/private/path/turn-secret</code></pre></div><p>За
 <script src="setup-guide.js?v=20261019-folds" defer></script>
 <script type="module" src="command-highlight.mjs?v=20261016-release033"></script>
 <script src="screen-demo.js?v=20261017-gallery-swipe" defer></script>
-<script type="module" src="language.mjs?v=20261022-forum"></script>
+<script type="module" src="language.mjs?v=20261022-forum-navigation"></script>
 </body></html>

diff --git a/README.md b/README.md
@@ -52,3 +52,5 @@
 Сайт обновлён после успешного релизного CI клиента 39603202087. Актуальные версии указаны в шапке, загрузках и инструкциях на русском, английском и китайском. Схема 24, голосовые комнаты Android, DeepFilterNet3 по умолчанию и обновление runtime на Go 1.27.3 через «Эфир». Версии исходных сборок на скриншотах сохранены; обычное настольное окно больше не называется компактным.
 
 22 октября 2026: клиент v0.7.13 / runtime v0.7.10, схема 27. Добавлены шесть снимков Flutter-виджетов форума с демонстрационными данными: список, открытая и закрытая тема на двух ширинах, без оболочки. Описаны вложения, проверка прав, отсутствие E2EE и будущие поиск/уведомления. Актуализирован лимит голосовой комнаты 2–32 (по умолчанию 8).
+
+22 октября 2026: клиент v0.7.14 / runtime v0.7.11, схема 28. Закрепления, непрочитанное, синхронизация чтения и разрешение устройству модератора. Галерея форума обновлена: восемь снимков Flutter-виджетов с демонстрационными данными.
